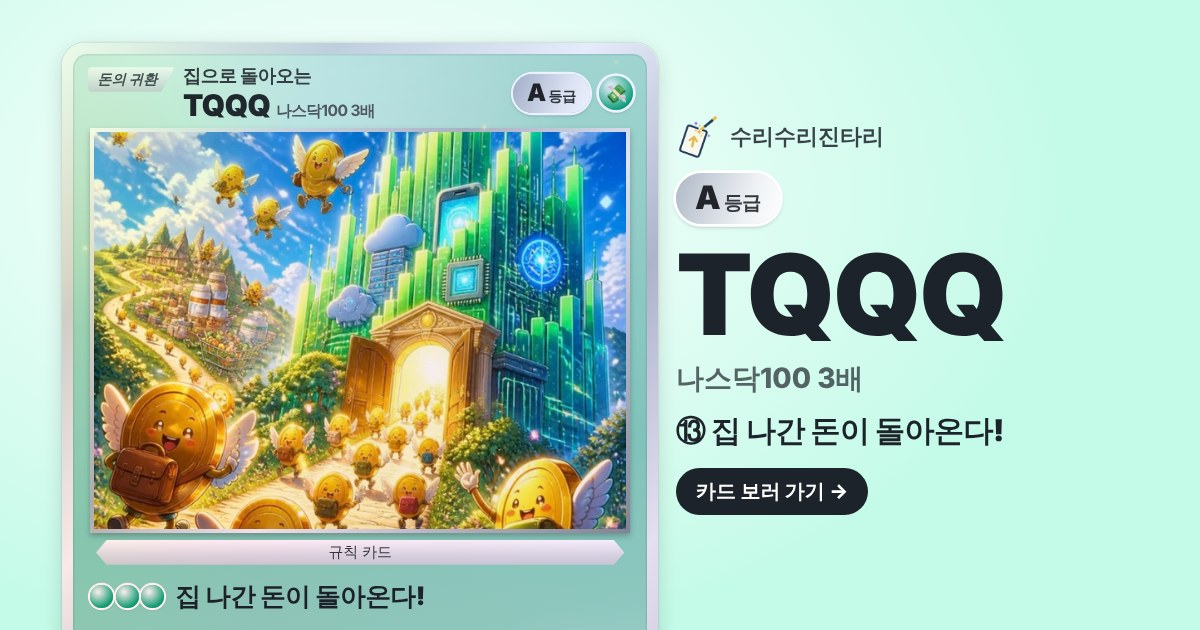
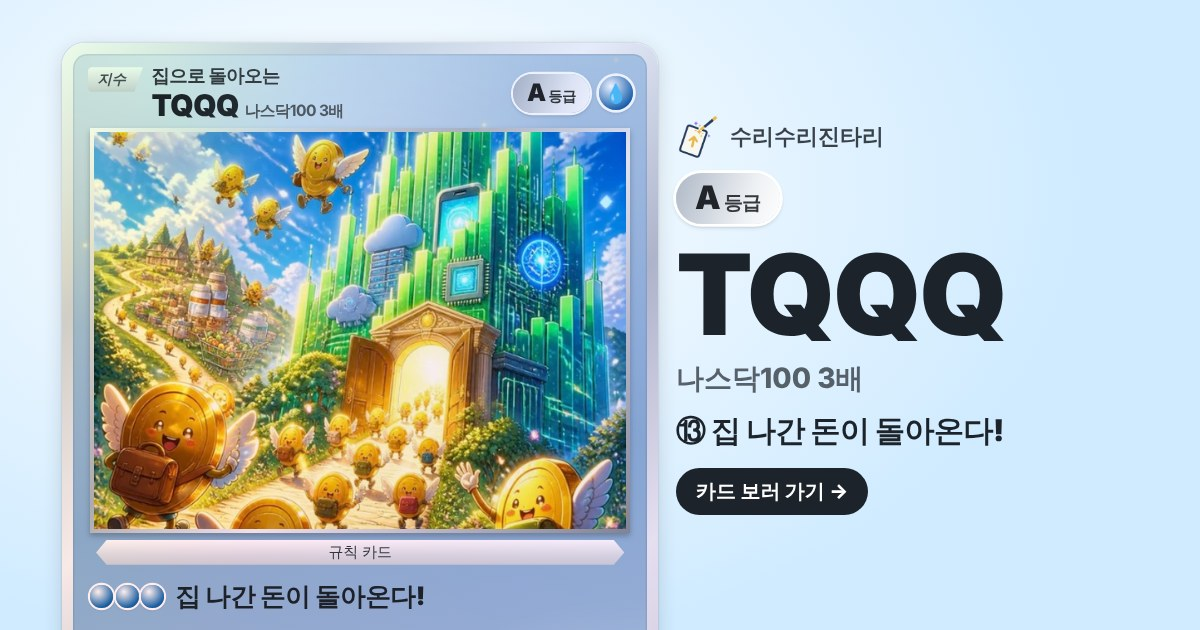
⑬ 공유 썸네일 지수 색으로
Claude-Session: https://claude.ai/code/session_01Xnyx7mtSPSqwH8ncGopNjD

Changed region(s): [[0.0308, 0.2111, 0.555, 1.0], [0.0617, 0.0905, 0.3083, 0.2111], [0.4933, 0.1206, 0.555, 0.181]]

diff --git a/c/15/index.html b/c/15/index.html
@@ -5,7 +5,7 @@
 <meta property="og:title" content="집 나간 돈이 돌아온다! 카드 · A등급">
 <meta property="og:description" content="돈이 넘칠 때 잠깐 방어주로 가출한 돈은, 결국 나스닥 집으로 돌아와요. 수리수리진타리에서 지금 이 카드를 확인하세요.">
 <meta property="og:url" content="https://stock.jintar.co.kr/c/15/">
-<meta property="og:image" content="https://stock.jintar.co.kr/c/15.jpg?v=mvhthfyt">
+<meta property="og:image" content="https://stock.jintar.co.kr/c/15.jpg?v=mvhtxkwk">
 <meta property="og:image:width" content="1200">
 <meta property="og:image:height" content="630">
 <meta property="og:image:alt" content="집 나간 돈이 돌아온다! 카드">
@@ -13,7 +13,7 @@
 <meta name="twitter:card" content="summary_large_image">
 <meta name="twitter:title" content="집 나간 돈이 돌아온다! 카드 · A등급">
 <meta name="twitter:description" content="돈이 넘칠 때 잠깐 방어주로 가출한 돈은, 결국 나스닥 집으로 돌아와요. 수리수리진타리에서 지금 이 카드를 확인하세요.">
-<meta name="twitter:image" content="https://stock.jintar.co.kr/c/15.jpg?v=mvhthfyt">
+<meta name="twitter:image" content="https://stock.jintar.co.kr/c/15.jpg?v=mvhtxkwk">
 <link rel="icon" href="https://yoonjintar2-ctrl.github.io/bb/hunter/a/icon180.png?v=2">
 <script>var h=(location.hash||'').replace(/^#/,'').replace(/[^A-Za-z0-9]/g,'');location.replace('/#c15'+(h?'-'+h:''));</script>
 </head><body style="font-family:sans-serif;color:#6b7580;text-align:center;padding-top:40vh"><a href="/#c15">카드 보러 가기</a></body></html>
